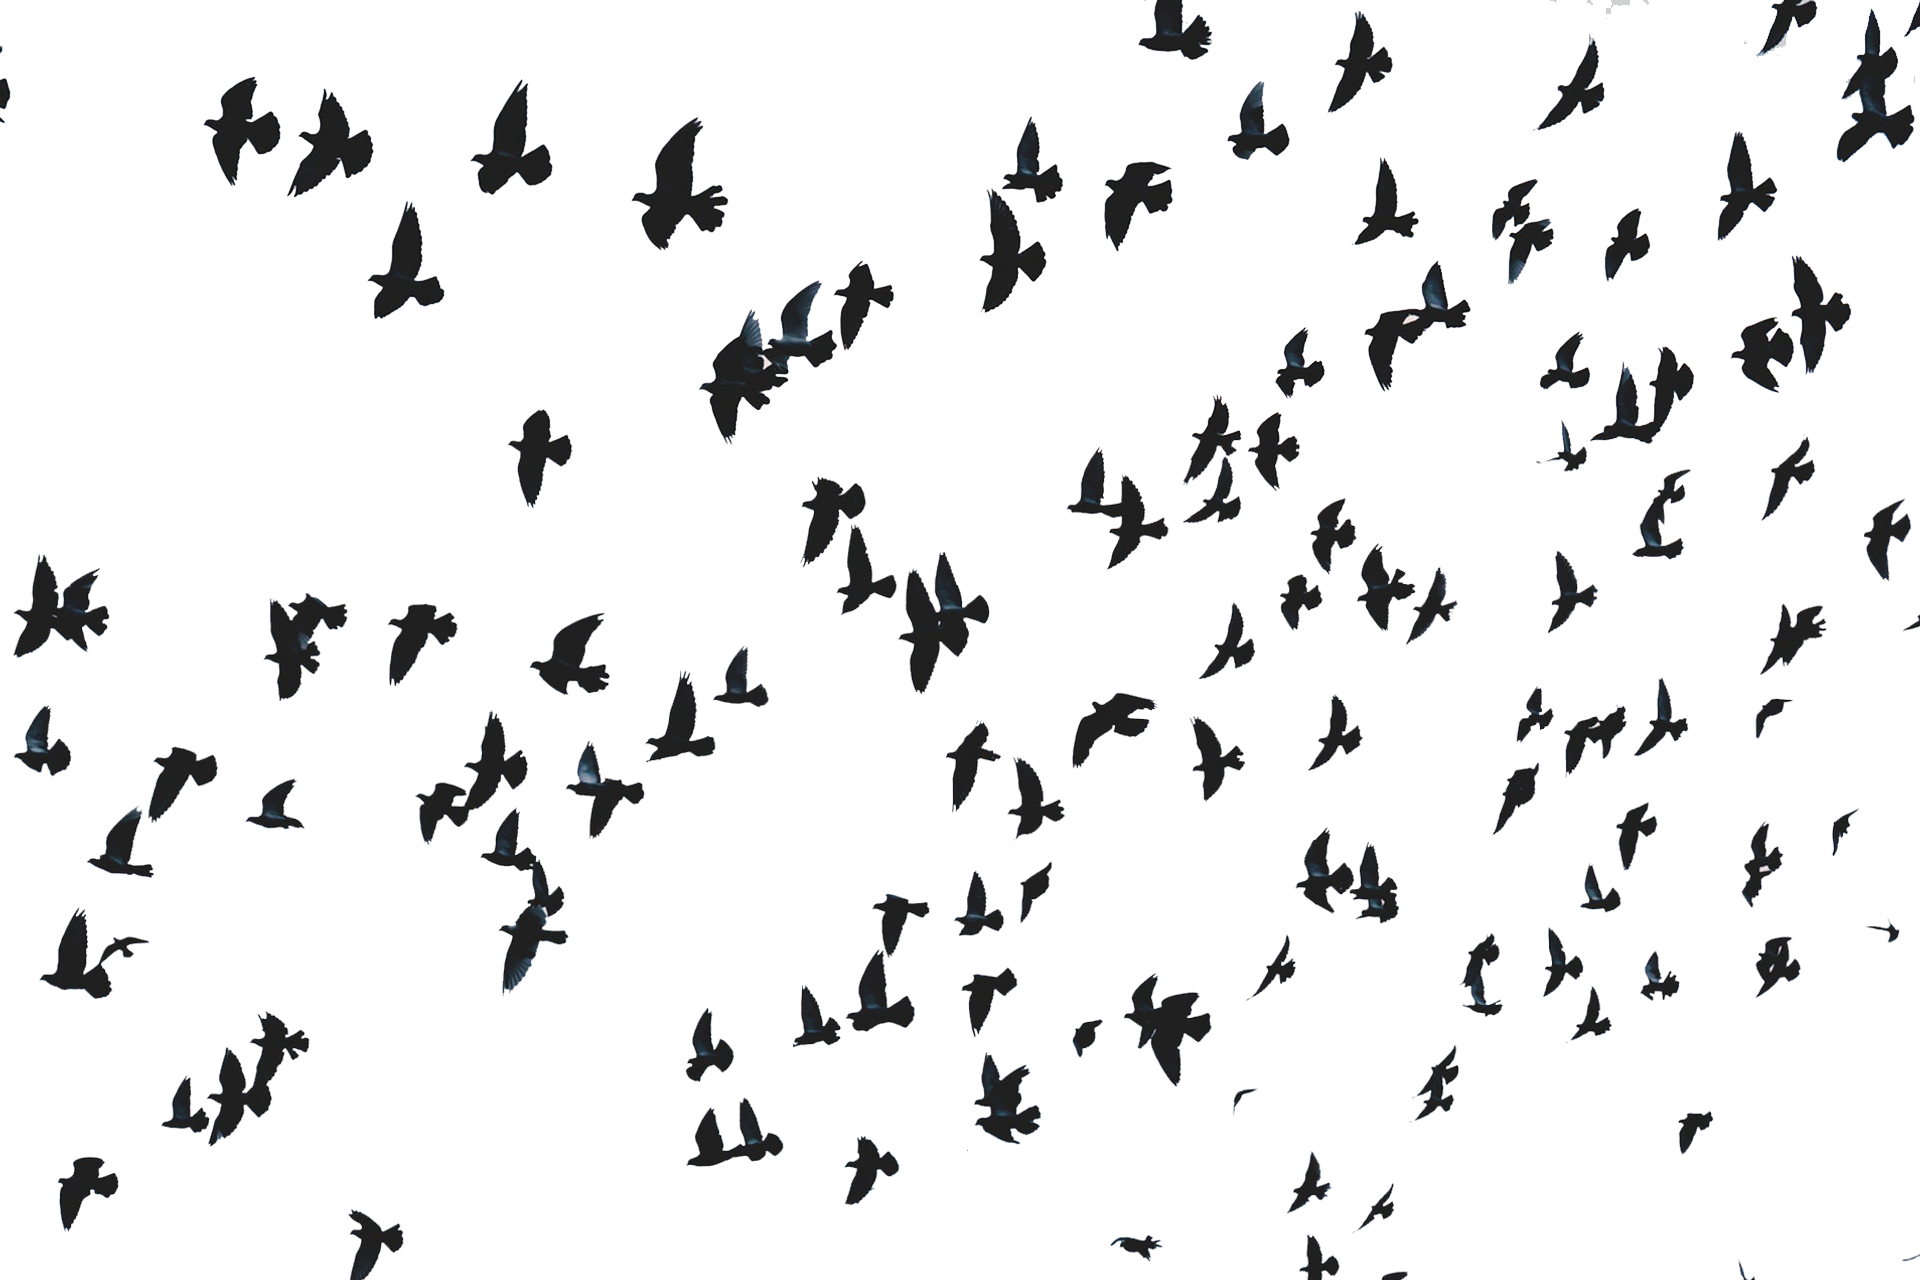
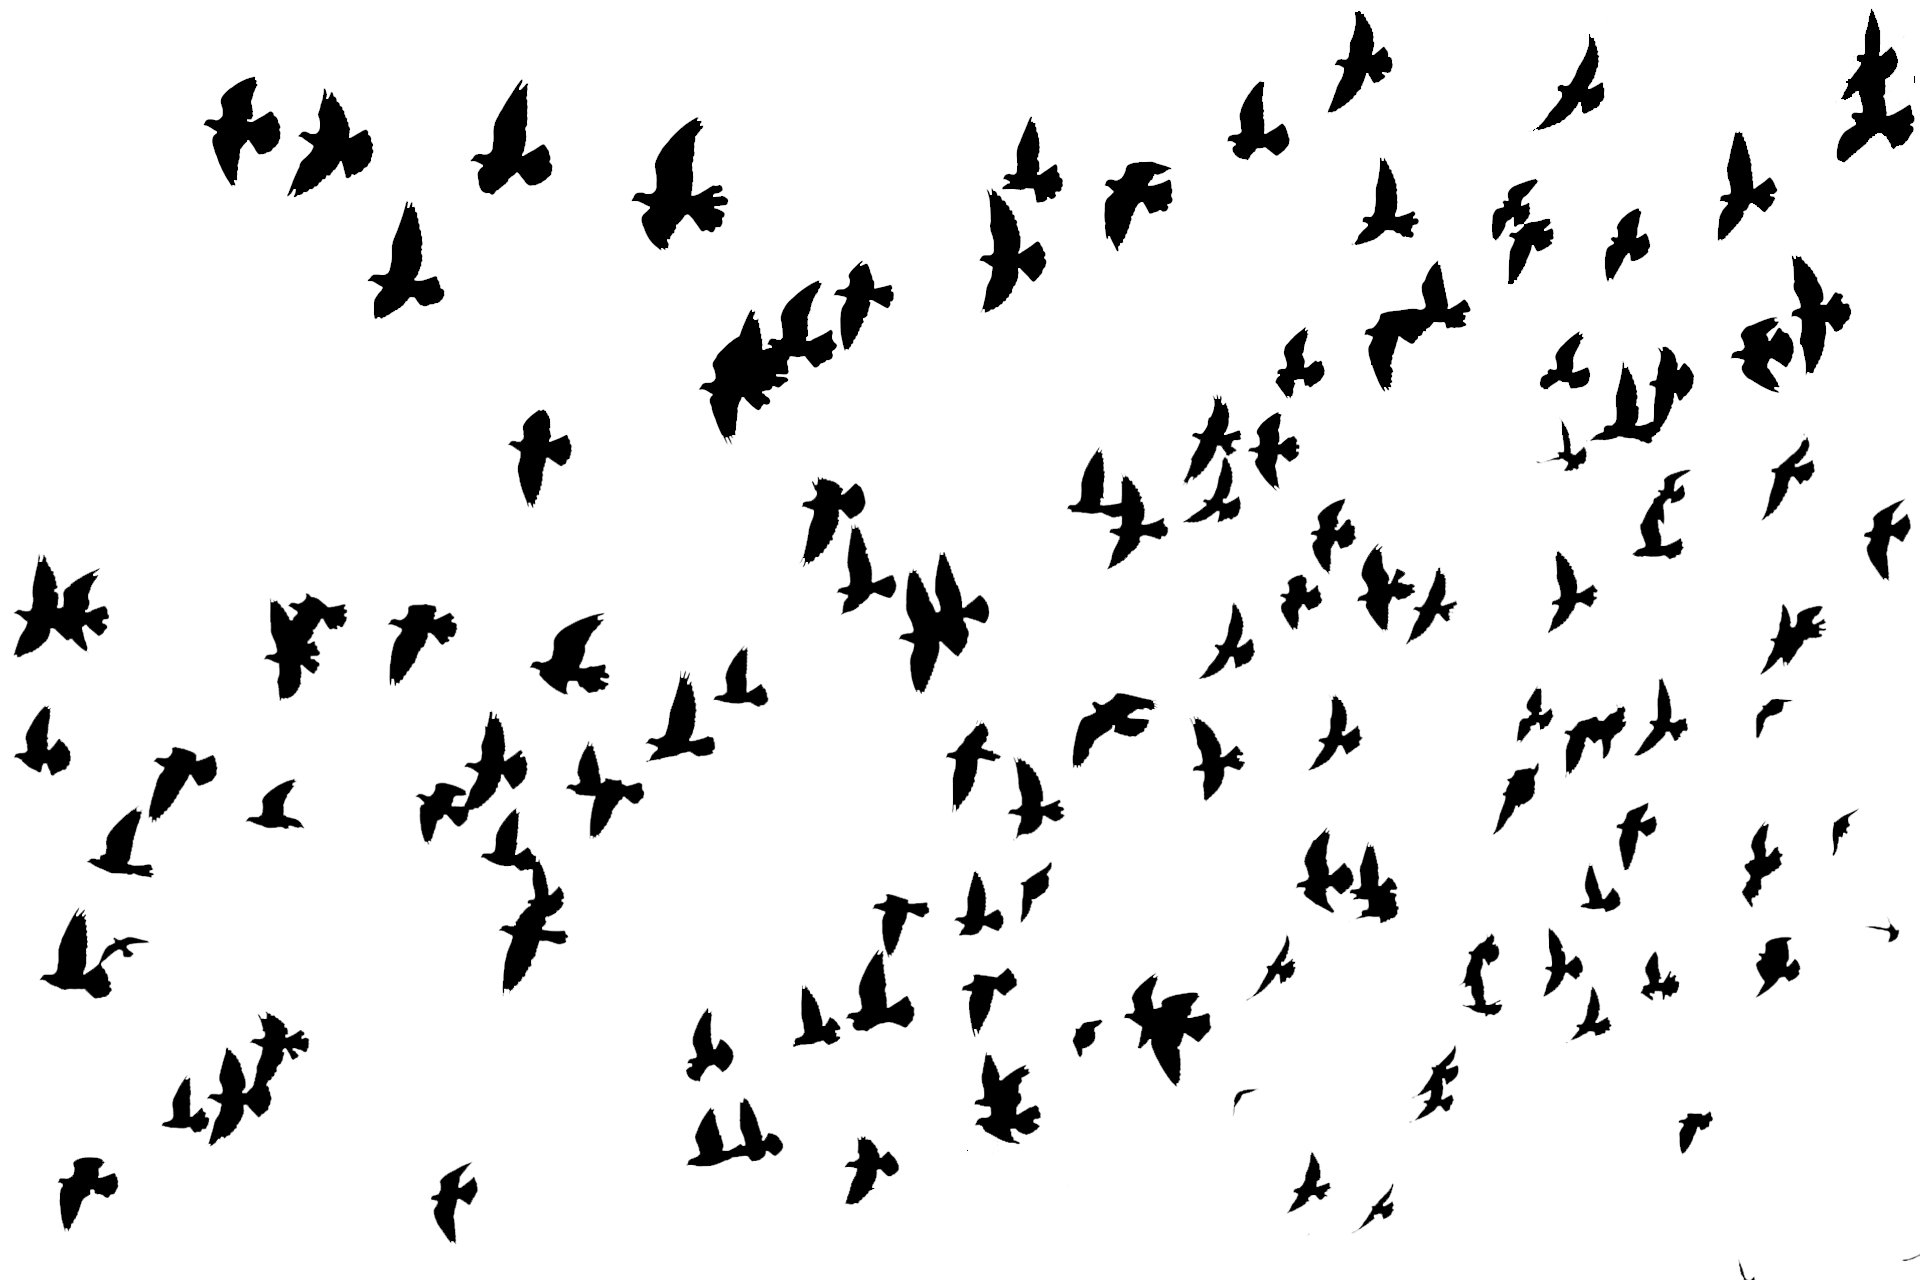
changed fonts and pics

diff --git a/index.html b/index.html
@@ -4,7 +4,7 @@
 
 	<title>Assignment-2</title>
 	<meta charset=utf-8>
-	
+	<link href="https://fonts.googleapis.com/css?family=Baloo+Paaji|Frijole|Skranji:400,700" rel="stylesheet">
 	<link rel="stylesheet" type="text/css" href="css/style.css">
 	<script src="https://aframe.io/releases/0.9.0/aframe.min.js"></script>
 	<script src="https://unpkg.com/aframe-orbit-controls@1.2.0/dist/aframe-orbit-controls.min.js"></script>
@@ -33,7 +33,7 @@
 		</div>
     
     <div class="info-card card-2">
-			<p> “[R]itual use of smoke represents a spirit, like the creation myth where it’s like Napi’s [the Blackfoot mythical creator] breath-you actually see it. These are the connections with smoking. It’s a physical manifestation of the spirit.” says Eldon Yellowhorn, a Blackfoot assistant professor of archaeology  at Simon Fraser University.</p>				 
+			<p> “Ritual use of smoke represents a spirit, like the creation myth where it’s like Napi’s [the Blackfoot mythical creator] breath-you actually see it. These are the connections with smoking. It’s a physical manifestation of the spirit.” says Eldon Yellowhorn, a Blackfoot assistant professor of archaeology  at Simon Fraser University.</p>				 
 		</div>
     
     <div class="info-card card-3">

diff --git a/css/style.css b/css/style.css
@@ -43,9 +43,8 @@ a{
 .aframe-scene {
 	width: 100vw;
 	height: 100vw;
-    background-image: url(../img/mixed2.png);
+    background-image: url(../img/mixed4.png);
     margin: auto;
-    background-repeat: no-repeat;
 }
 
 
@@ -66,7 +65,10 @@ a{
     
 }
 
+
+
 .card-2{
+    transition: all 1s ease-in-out;
     color: white;
 	position: absolute;
 	z-index: 50;
@@ -121,5 +123,15 @@ a{
 	padding: 40px 0;
 	background: rgba(0, 0, 0, 0.6);
 
+}
+
+p{
+    font-size: 130%;
+font-family: 'Skranji', cursive; 
+}
+
+h1{
+    font-size: 400%;
+font-family: 'Skranji', cursive; 
 }
 
